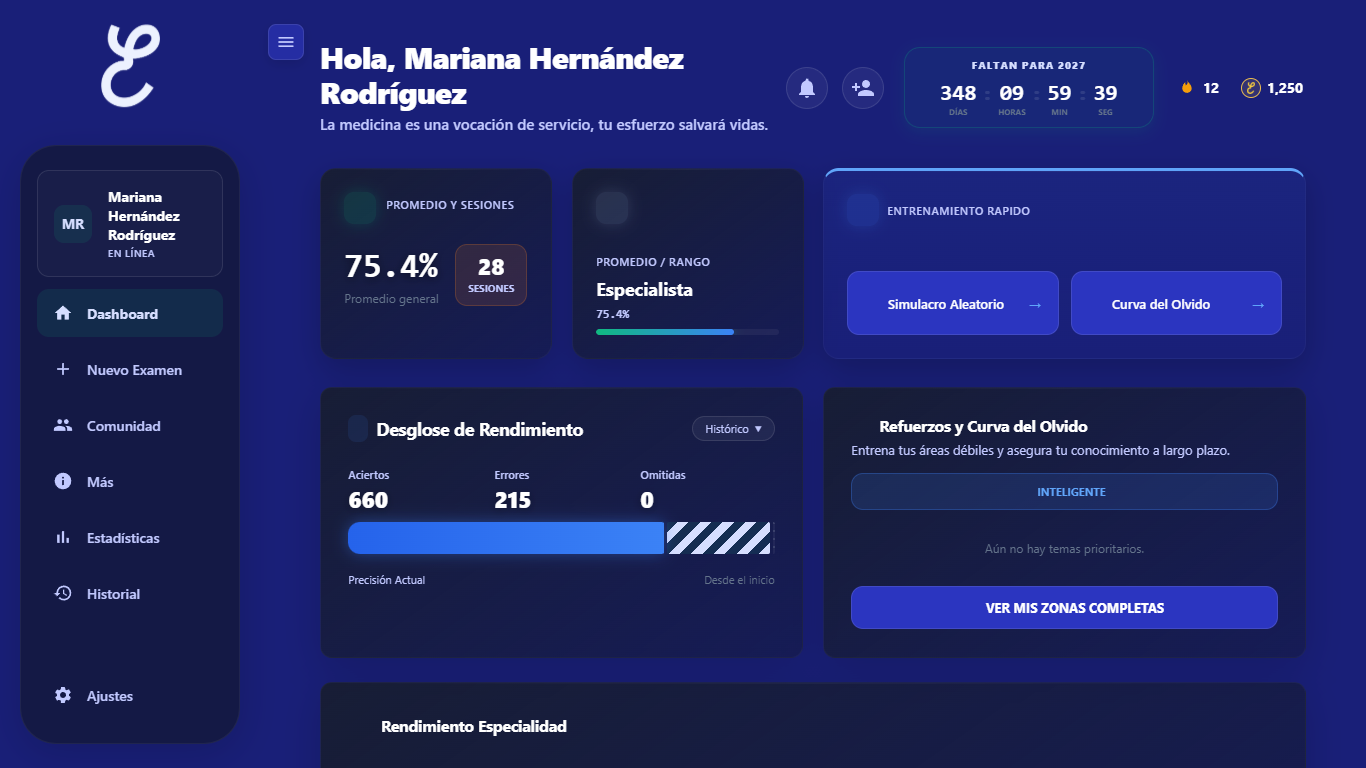
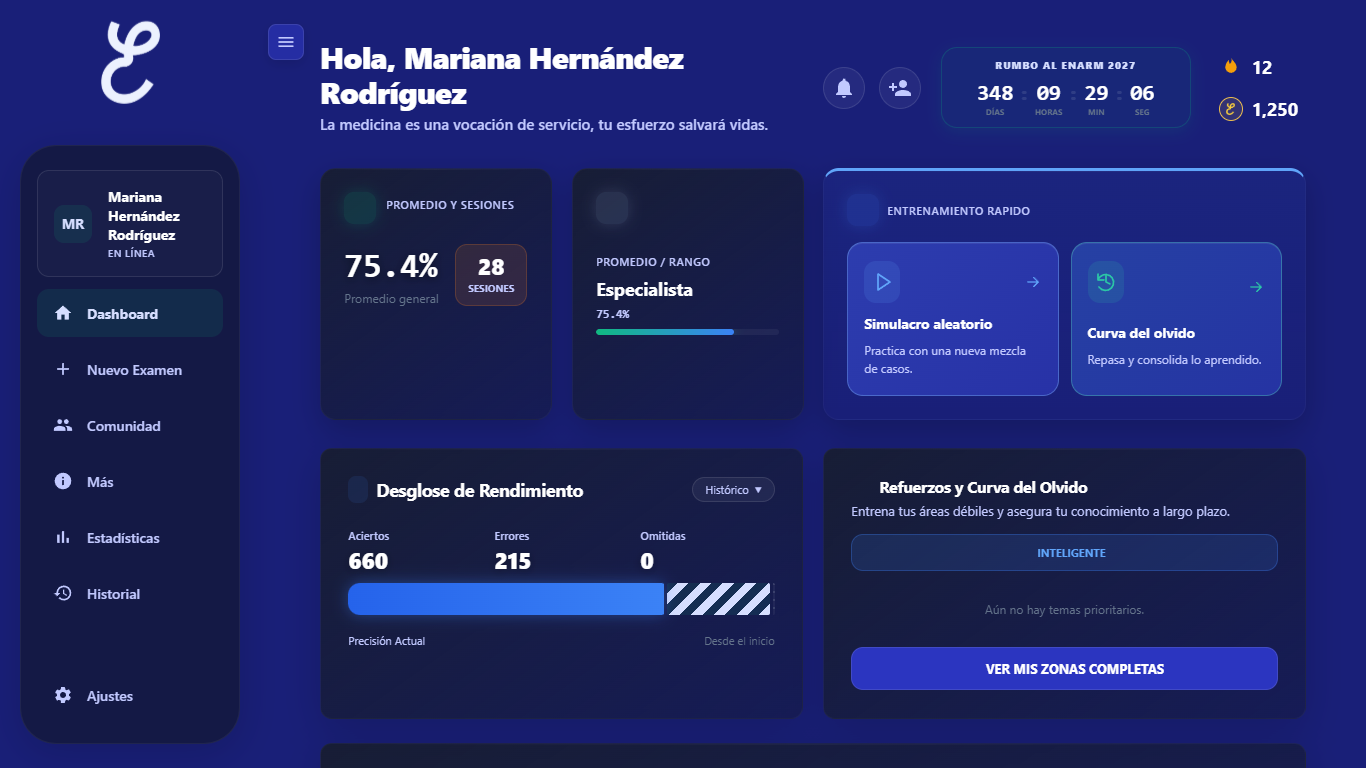
estetica

Changed region(s): [[0.2152, 0.3125, 0.9531, 0.9688], [0.5842, 0.0625, 0.9531, 0.1562], [0.0615, 0.0312, 0.123, 0.1562]]

diff --git a/dashboard-layout.css b/dashboard-layout.css
@@ -7,7 +7,7 @@
 #view-dashboard .dashboard-name-row { display: flex; align-items: center; gap: 8px; min-width: 0; }
 #view-dashboard .dashboard-greeting-title { min-width: 0; overflow-wrap: anywhere; line-height: 1.15; font-size: clamp(24px, 2.2vw, 32px); }
 #view-dashboard .dashboard-hero-quote { line-height: 1.5; overflow-wrap: anywhere; }
-#view-dashboard .dashboard-counters { display: flex; align-items: center; gap: 16px; margin-left: auto; flex-shrink: 0; }
+#view-dashboard .dashboard-counters { display: flex; flex-direction: column; align-items: stretch; gap: 4px; margin-left: auto; flex-shrink: 0; }
 #view-dashboard .dashboard-counter {
   display: inline-flex; align-items: center; justify-content: center; gap: 6px;
   flex-shrink: 0; min-height: 36px; padding: 5px 3px; border: 0; border-radius: 8px;
@@ -16,6 +16,9 @@
 }
 #view-dashboard .dashboard-counter:hover { background: color-mix(in srgb, var(--text-primary) 7%, transparent); }
 #view-dashboard .dashboard-counter:focus-visible { outline: 2px solid var(--accent-blue); outline-offset: 3px; }
+#view-dashboard .dashboard-counters .dashboard-counter { justify-content: flex-start; gap: 9px; min-height: 38px; padding: 5px 8px; font-size: 18px; }
+#view-dashboard .dashboard-counters .dashboard-flame-icon { width: 24px; height: 24px; }
+#view-dashboard .dashboard-counters .dashboard-coin-icon { width: 24px; height: 24px; }
 #view-dashboard .dashboard-flame-icon { width: 20px; height: 20px; flex-shrink: 0; fill: #f59e0b; }
 #view-dashboard .dashboard-streak-mobile { display: none; }
 #view-dashboard .dashboard-coin-icon {
@@ -28,6 +31,29 @@
 #view-dashboard #card-quick-training { grid-column: span 2; }
 #view-dashboard .quick-training-actions { display: grid; grid-template-columns: repeat(2, minmax(0, 1fr)); gap: 12px; flex: 1; align-content: end; }
 #view-dashboard .quick-training-actions .action-btn { height: 100%; min-height: 64px; padding: 16px; gap: 10px; }
+#view-dashboard .quick-training-actions .training-action {
+  --training-accent: var(--accent-blue);
+  display: grid; grid-template-columns: minmax(0, 1fr) 18px; align-items: start; align-content: start;
+  width: 100%; min-height: 112px; padding: 18px 16px; gap: 12px; text-align: left; white-space: normal; font: inherit; cursor: pointer;
+  border: 1px solid color-mix(in srgb, var(--training-accent) 30%, var(--border));
+  border-radius: 16px; color: var(--text-primary);
+  background: linear-gradient(135deg, color-mix(in srgb, var(--training-accent) 13%, var(--bg-card)), color-mix(in srgb, var(--training-accent) 4%, var(--bg-card)));
+  box-shadow: inset 0 1px 0 color-mix(in srgb, var(--text-primary) 7%, transparent);
+  transition: background .2s ease, border-color .2s ease, box-shadow .2s ease;
+}
+#view-dashboard .quick-training-actions .training-action--review { --training-accent: #2bc6a6; }
+#view-dashboard .quick-training-actions .training-action:hover {
+  transform: none; border-color: var(--training-accent);
+  background: color-mix(in srgb, var(--training-accent) 18%, var(--bg-card));
+  box-shadow: 0 6px 18px color-mix(in srgb, var(--training-accent) 12%, transparent);
+}
+#view-dashboard .training-action:focus-visible { outline: 2px solid var(--training-accent); outline-offset: 3px; }
+#view-dashboard .training-action-icon { display: grid; place-items: center; width: 36px; height: 42px; border-radius: 12px; color: var(--training-accent); background: color-mix(in srgb, var(--training-accent) 14%, transparent); }
+#view-dashboard .training-action-icon svg { width: 24px; height: 24px; }
+#view-dashboard .training-action-copy { display: grid; gap: 7px; min-width: 0; grid-column: 1 / -1; grid-row: 2; }
+#view-dashboard .training-action-copy strong { font-size: 14px; line-height: 1.35; font-weight: 700; }
+#view-dashboard .training-action-copy small { font-size: 12px; font-weight: 400; line-height: 1.5; color: var(--text-secondary); }
+#view-dashboard .training-action-arrow { grid-column: 2; grid-row: 1; align-self: center; width: 18px; height: 18px; color: var(--training-accent); }
 #view-dashboard .action-btn-left { min-width: 0; gap: 8px; }
 #view-dashboard .action-btn-left > span:last-child { overflow-wrap: anywhere; text-align: left; }
 #view-dashboard .action-btn-arrow { flex-shrink: 0; }
@@ -54,18 +80,30 @@
   #view-dashboard .dashboard-bottom { grid-template-columns: minmax(0, 1fr); }
 }
 @media (max-width: 768px) {
-  #view-dashboard .dashboard-header { display: flex; flex-direction: column; gap: 0; }
+  #view-dashboard .dashboard-header { display: flex; flex-direction: column; gap: 20px; }
   #view-dashboard .dashboard-mobile-hero {
-    flex: 0 0 auto; display: grid; grid-template-columns: auto minmax(0, 1fr) auto auto;
-    gap: 10px; padding: 16px 12px; width: 100%;
+    flex: 0 0 auto; display: grid; grid-template-columns: auto minmax(0, 1fr) auto;
+    gap: 14px; padding: 18px 16px; width: 100%;
   }
-  #view-dashboard .dashboard-hero-avatar { width: 52px !important; height: 52px !important; }
-  #view-dashboard .dashboard-hero-bell { width: 36px; height: 36px; }
-  #view-dashboard .dashboard-hero-bell svg { width: 20px; height: 20px; }
-  #view-dashboard .dashboard-greeting-title { font-size: clamp(18px, 5vw, 24px); overflow: hidden; text-overflow: ellipsis; white-space: nowrap; }
+  #view-dashboard .dashboard-hero-avatar { width: 72px !important; height: 72px !important; }
+  #view-dashboard .dashboard-hero-bell { width: 64px; height: 64px; }
+  #view-dashboard .dashboard-hero-bell svg { width: 28px; height: 28px; }
+  #view-dashboard .dashboard-greeting-title { flex: 1; font-size: clamp(24px, 6.5vw, 31px); overflow: hidden; display: -webkit-box; -webkit-box-orient: vertical; -webkit-line-clamp: 2; }
   #view-dashboard .dashboard-streak-mobile { display: inline-flex; font-size: 12px; gap: 3px; padding-inline: 2px; }
   #view-dashboard .dashboard-streak-mobile .dashboard-flame-icon { width: 16px; height: 18px; }
   #view-dashboard .dashboard-counters { display: none; }
+  #view-dashboard #exam-countdown {
+    min-width: 0; height: auto; gap: 16px; padding: 20px 16px; border-radius: 22px;
+    background: linear-gradient(145deg, color-mix(in srgb, var(--accent-blue) 12%, var(--bg-card)), var(--bg-card));
+    border: 1px solid color-mix(in srgb, var(--accent-blue) 25%, var(--border));
+    box-shadow: none;
+  }
+  #view-dashboard .countdown-label { font-size: 11px; letter-spacing: .12em; color: var(--text-secondary); }
+  #view-dashboard .countdown-timer { display: grid; width: 100%; grid-template-columns: repeat(4, minmax(0, 1fr)); align-items: stretch; gap: 8px; }
+  #view-dashboard .countdown-timer .cd-sep { display: none; }
+  #view-dashboard .cd-item { gap: 7px; padding: 12px 4px; border: 1px solid var(--border); border-radius: 12px; background: color-mix(in srgb, var(--text-primary) 4%, transparent); }
+  #view-dashboard .cd-item span { font-size: clamp(26px, 8vw, 38px); line-height: 1; letter-spacing: -.04em; }
+  #view-dashboard .cd-item label { font-size: 10px; letter-spacing: .07em; color: var(--text-secondary); }
   #view-dashboard #card-performance-summary { grid-column: 1 / -1; order: 1; }
   #view-dashboard #card-rango { grid-column: 1 / -1; order: 2; }
   #view-dashboard #card-quick-training { grid-column: 1 / -1; order: 3; }
@@ -75,12 +113,27 @@
   #view-dashboard #card-performance-summary .stat-value { font-size: 32px; }
   #view-dashboard #card-performance-summary .stat-label { font-size: 10px; }
   #view-dashboard .quick-training-actions { grid-template-columns: minmax(0, 1fr); gap: 10px; }
-  #view-dashboard .quick-training-actions .action-btn { min-height: 48px; padding: 12px; }
+  #view-dashboard .quick-training-actions .training-action { min-height: 100px; padding: 16px; grid-template-columns: 44px minmax(0, 1fr) 20px; }
+  #view-dashboard .training-action-copy { grid-column: 2; grid-row: 1; align-self: center; }
+  #view-dashboard .training-action-arrow { grid-column: 3; }
+  #view-dashboard .training-action-icon { width: 44px; height: 48px; }
+  #view-dashboard .training-action-copy strong { font-size: 16px; }
+  #view-dashboard .training-action-copy small { font-size: 13px; }
+}
+@media (max-width: 400px) {
+  #view-dashboard .dashboard-hero-avatar { width: 64px !important; height: 64px !important; }
+  #view-dashboard .dashboard-hero-bell { width: 58px; height: 58px; }
+  #view-dashboard .dashboard-hero-bell svg { width: 24px; height: 24px; }
+  #view-dashboard .dashboard-greeting-title { font-size: 24px; }
 }
 @media (max-width: 360px) {
-  #view-dashboard .dashboard-mobile-hero { gap: 6px; padding: 14px 10px; }
-  #view-dashboard .dashboard-hero-avatar { width: 44px !important; height: 44px !important; }
-  #view-dashboard .dashboard-hero-bell { width: 32px; height: 32px; }
+  #view-dashboard .dashboard-mobile-hero { gap: 10px; padding: 16px 12px; }
+  #view-dashboard .dashboard-hero-avatar { width: 56px !important; height: 56px !important; }
+  #view-dashboard .dashboard-hero-bell { width: 48px; height: 48px; }
+  #view-dashboard .dashboard-greeting-title { font-size: 22px; }
   #view-dashboard .dashboard-name-row { gap: 4px; }
   #view-dashboard .performance-session-pill { min-width: 80px; padding-inline: 12px; }
+}
+@media (prefers-reduced-motion: reduce) {
+  #view-dashboard .quick-training-actions .training-action { transition: none; }
 }

diff --git a/index.html b/index.html
@@ -967,7 +967,7 @@
                     </div>
 
                     <div class="countdown-widget" id="exam-countdown" hidden>
-                        <div class="countdown-label">FALTAN PARA 2027</div>
+                        <div class="countdown-label">RUMBO AL ENARM 2027</div>
                         <div class="countdown-timer">
                             <div class="cd-item"><span id="cd-days">000</span><label>DÍAS</label></div>
                             <div class="cd-sep">:</div>
@@ -1061,19 +1061,15 @@
                             <div class="stat-label" style="margin: 0;">ENTRENAMIENTO RAPIDO</div>
                         </div>
                         <div class="quick-training-actions">
-                            <button class="action-btn" id="btn-quick-start">
-                                <div class="action-btn-left">
-                                    <span class="action-btn-icon">&#x1F680;</span>
-                                    <span>Simulacro Aleatorio</span>
-                                </div>
-                                <span class="action-btn-arrow">&rarr;</span>
+                            <button class="training-action training-action--exam" id="btn-quick-start" type="button">
+                                <span class="training-action-icon" aria-hidden="true"><svg viewBox="0 0 24 24" fill="none" stroke="currentColor" stroke-width="1.7" stroke-linecap="round" stroke-linejoin="round"><path d="m8 4 12 8-12 8V4Z"/></svg></span>
+                                <span class="training-action-copy"><strong>Simulacro aleatorio</strong><small>Practica con una nueva mezcla de casos.</small></span>
+                                <svg class="training-action-arrow" viewBox="0 0 24 24" fill="none" stroke="currentColor" stroke-width="1.8" stroke-linecap="round" stroke-linejoin="round" aria-hidden="true"><path d="M5 12h14m-6-6 6 6-6 6"/></svg>
                             </button>
-                            <button class="action-btn" id="btn-curva-olvido">
-                                <div class="action-btn-left">
-                                    <span class="action-btn-icon">&#x1F9E0;</span>
-                                    <span>Curva del Olvido</span>
-                                </div>
-                                <span class="action-btn-arrow">&rarr;</span>
+                            <button class="training-action training-action--review" id="btn-curva-olvido" type="button">
+                                <span class="training-action-icon" aria-hidden="true"><svg viewBox="0 0 24 24" fill="none" stroke="currentColor" stroke-width="1.7" stroke-linecap="round" stroke-linejoin="round"><path d="M4 10a8 8 0 1 1 1 7M4 4v6h6m2-4v6l4 2"/></svg></span>
+                                <span class="training-action-copy"><strong>Curva del olvido</strong><small>Repasa y consolida lo aprendido.</small></span>
+                                <svg class="training-action-arrow" viewBox="0 0 24 24" fill="none" stroke="currentColor" stroke-width="1.8" stroke-linecap="round" stroke-linejoin="round" aria-hidden="true"><path d="M5 12h14m-6-6 6 6-6 6"/></svg>
                             </button>
                         </div>
                     </div>

diff --git a/service-worker.js b/service-worker.js
@@ -36,7 +36,7 @@ try {
 
 // ENARMax Service Worker
 // Versión de caché — incrementa este número para forzar actualización en todos los dispositivos
-const CACHE_NAME = 'enarmax-v84-dashboard-streak';
+const CACHE_NAME = 'enarmax-v85-dashboard-training-countdown';
 const COMPROMISED_ASSETS = ['/redeem_codes.txt', 'redeem_codes.txt'];
 
 // Archivos esenciales que se cachean al instalar
